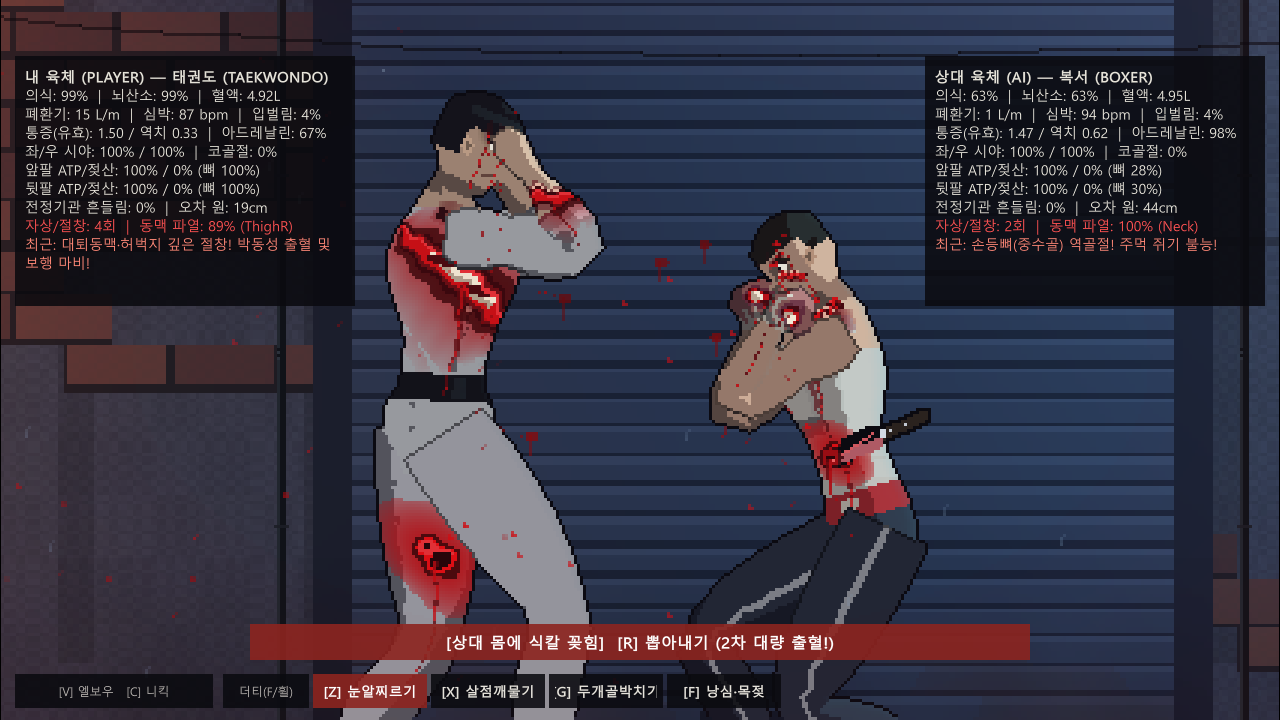
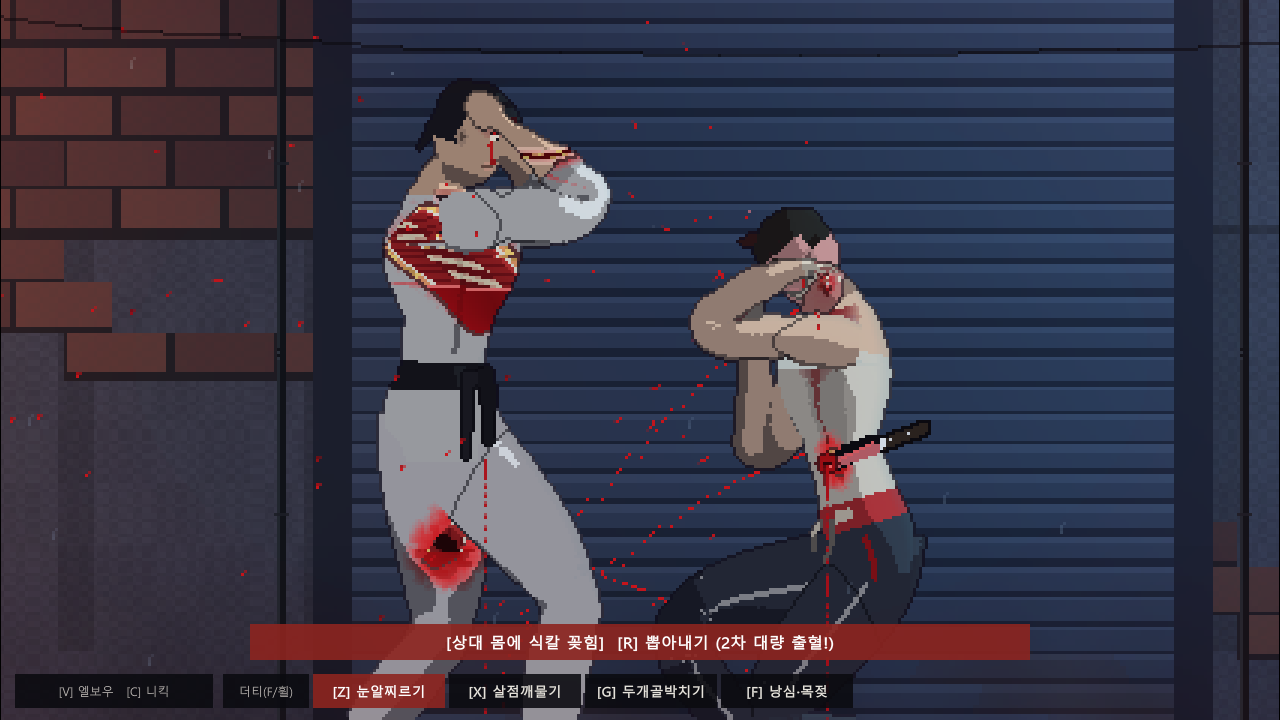
REAL FIGHT CLUB - V2 release notes & screenshots

diff --git a/README.md b/README.md
@@ -1,12 +1,12 @@
-# FIGHT CLUB — V1
+# REAL FIGHT CLUB — V2
 
-> 체력바 없는 극사실 해부학·생리 시뮬레이션 2D 픽셀 스트리트 파이팅 (Windows 64-bit)
+> 생리학 · 법의학 기반 극사실 고어 & 소프트 바디 절차적 2D 픽셀 스트리트 파이팅 (Windows 64-bit)
 
-가짜 HP·스태미나 바가 없습니다. 의식, 뇌산소, 혈액량, 근육 ATP·젖산, 뼈·관절 건전성, 동맥 출혈, 전정기관 평형 같은 **실제 의학·생리 지표**와 2D 액티브 래그돌 절차적 애니메이션으로 싸웁니다.
+가짜 HP · 스태미나 바가 없습니다. 의식, 뇌산소, 혈액량(5L), 근육 ATP · 젖산, 뼈 · 관절 건전성, 동맥 출혈, 전정기관 평형 같은 **실제 의학 · 생리 지표**와 2D 액티브 래그돌 + 소프트 바디 절차적 애니메이션으로 싸웁니다.
 
 ## ⬇ 다운로드 & 실행
 
-1. 오른쪽 **[Releases](../../releases/latest)** 에서 `FightClub_Windows_x64.zip` 을 받습니다.
+1. 오른쪽 **[Releases](../../releases/latest)** 에서 최신 `FightClub_Windows_x64.zip` 을 받습니다.
 2. 아무 폴더에 **압축을 전부 풉니다** (`FightClub_Data` 폴더가 `FightClub.exe` 옆에 있어야 합니다).
 3. `FightClub.exe` 를 실행합니다.
 
@@ -43,31 +43,32 @@
 ![Blade Slash](docs/screenshots/v15_02_blade_slash_torn_cloth.png)
 ![Boiler Room](docs/screenshots/v15_03_blunt_fracture_bite_burn.png)
 
-## 📝 V1 패치 노트
+## 🔥 V2 주요 업데이트 (REAL FIGHT CLUB V2)
 
-**조작 · 전투**
-- 마우스 드래그 훅 · 어퍼컷이 실제로 나가도록 입력 판정 수정
-- 키보드 기본 가드(`L-Shift`) 추가 — 휠클릭이 불편하거나 트랙패드여도 가드 가능
-- 실전 경기 중 `Tab` · `1~4` · `F2` · `Backspace` 오입력으로 경기가 초기화되던 문제 수정 (훈련 모드 전용으로 변경)
-- 테이크다운 방어 키보드 대체 입력(`Alt`+`S` / `Alt`+`W`) 추가, 방어 보조키 바인딩 지원
-- 레슬러 테이크다운 그립을 `R`로 직접 풀 수 있음
+**생리학 · 법의학 극사실 고어 & 혈액 유체**
+- **17종 손상 기전별 법의학 상처 표현**: 주먹(관절열 멍), 팔꿈치, 쇠파이프(이중선 멍), 각목, 유리 파편, 커터칼, 식칼, 중식도(찍힘 · 뼈 홈), 사람 치아(상하 치열 + 흡인 점상출혈), 증기 습열 화상, 콘크리트 찰과 등 기전에 따라 전혀 다른 상처 형태
+- **해부학 층별 조직 단면**: 진피 → 피하지방 → 근막 → 근섬유 → 피질골 · 늑골 · 체강까지 부위별 실제 조직 두께에 비례해 깊게 벌어짐
+- **실루엣 변형 외상**: 국소 부종 및 팽팽한 피부 광택, 폐쇄 골절 각변형, 개방 골절 골편 돌출, 깊은 복부 관통 자상 시 장기 탈출
+- **전신 혈역학 피부색 & 얼굴 외상**: 실혈 창백 · 저산소 청색증 · 목 압박 울혈 및 점상출혈, 두부 중력 방향 피 흐름, 치아 탈락 파편
+- **물리 기반 혈액 유체 & 혈흔(BPA)**: 심장 박동 위상에 연동된 동맥 분출(탄도 궤적 · 방울 분열), 정맥 정수압 낙하 방울, 피 웅덩이 · 발자국 · 피 묻은 주먹 캐스트오프
 
-**무기 · AI · 밸런스**
-- 바닥 흉기를 선수 사이가 아니라 등 뒤 · 벽 쪽에 배치 — 시작하자마자 칼싸움이 되는 문제 해결
-- 브롤러 AI가 개시 직후 무기부터 줍던 행동 수정 (맨손 교전 후 / 불리할 때만 흉기 탐색)
-- 다운된 상대 옆에서 레슬러가 병을 줍던 버그 수정
-- 흉기를 든 채 클린치 · 태클하면 무기가 얼굴 앞에 떠 있던 연출 수정 (양손 그립 시 내려놓음)
-- `F` 짓밟기를 흉기 소지 중에도 사용 가능, `S`+`F`로 흉기 내려놓기
-- 투척물이 목 · 골반 · 다리 · 쓰러진 상대에게도 맞도록 판정 확장, 자갈 안구 100% 명중 편향 제거
-- 보일러실 증기 배관 화상이 벽에 닿을 때만 들어가고, 쓰러진 몸에 반복되지 않도록 수정
-- 칼을 막은 팔이 실제 방어한 팔(좌/우)에 상처가 남도록 수정, 고통 항복 판정 현실화
+**소프트 바디 · 곡선 메시 · 유체 모션**
+- **곡선 신체 메시 & 4단 톤 래스터라이저**: 꺾인 직선 대신 관절을 매끄럽게 잇는 곡선 중심선으로 신체 실루엣과 조명 품질 대폭 개선
+- **시각 전용 소프트 바디 & 2차 모션**: 가감속 · 피격 · 착지 시 관성 지연, 스쿼시 & 스트레치, 살 지연, 빠른 타격 끝단 잔상, 스프링 머리카락 · 띠 · 재킷 · 핸드랩 체인, 눈 깜빡임 · 시선 추적 · 표정
+- **관성 보행 · 체중 이동 · 독립 목/머리 스프링**: 종목별 대기 리듬, 출발/제동 기울기, 정밀 타격 접촉 판정 개선
+- **프레임 보간 & 히트스톱 비주얼 슬로모션**: 120Hz 물리를 모니터 주사율에 맞춰 보간하고, 타격 히트스톱 중에도 파티클 · 카메라 · 2차 모션이 부드럽게 유지
 
-**튜토리얼 · UI · 사운드**
-- 튜토리얼 9단계로 확장 (엘보우 · 니킥, 테이크다운 방어 · 기상 추가), 잘못된 안내와 판정 버그 수정
-- 훈련 배지 · 더티 바 · 인스펙트 버튼 글자 잘림 / 깨짐 수정, 전투 상단 힌트에 배경 바 추가
-- 메인 메뉴가 파이터를 가리지 않도록 카메라 구도 조정, 캐릭터 선택에 **배경 미리보기** 추가
-- 비 오는 맵에서만 빗소리, 일시정지 중 생리음 · 타격음 정지, 오디오 스레드 안정성 개선
-- X-Ray 패널에 코어 · 다리 스태미나 표시, 자유 훈련 `F7` 칼이 바닥에 쌓이던 문제 수정 외 다수
+<details>
+<summary>이전 V1 패치 노트 보기</summary>
+
+- 마우스 드래그 훅 · 어퍼컷 정상 발동 / 키보드 기본 가드(`L-Shift`) 추가
+- 실전 경기 중 `Tab` · `1~4` · `F2` · `Backspace` 오입력으로 경기가 초기화되던 버그 수정 (훈련 모드 전용)
+- 바닥 흉기 배치 개편(선수 등 뒤 · 벽 쪽) + 브롤러 AI 개시 직후 무기 줍기 돌진 수정
+- 흉기 든 채 클린치/태클 연출 수정, `F` 짓밟기 · `S`+`F` 내려놓기, 레슬러 `R` 그립 해제
+- 투척물 판정 확장(목 · 골반 · 다리 · 다운 상대), 자갈 안구 100% 명중 편향 제거
+- 튜토리얼 9단계 확장, UI 잘림/깨짐 수정, 메인 메뉴 구도 · 캐릭터 선택 배경 미리보기, 오디오 개선
+
+</details>
 
 ---
 
